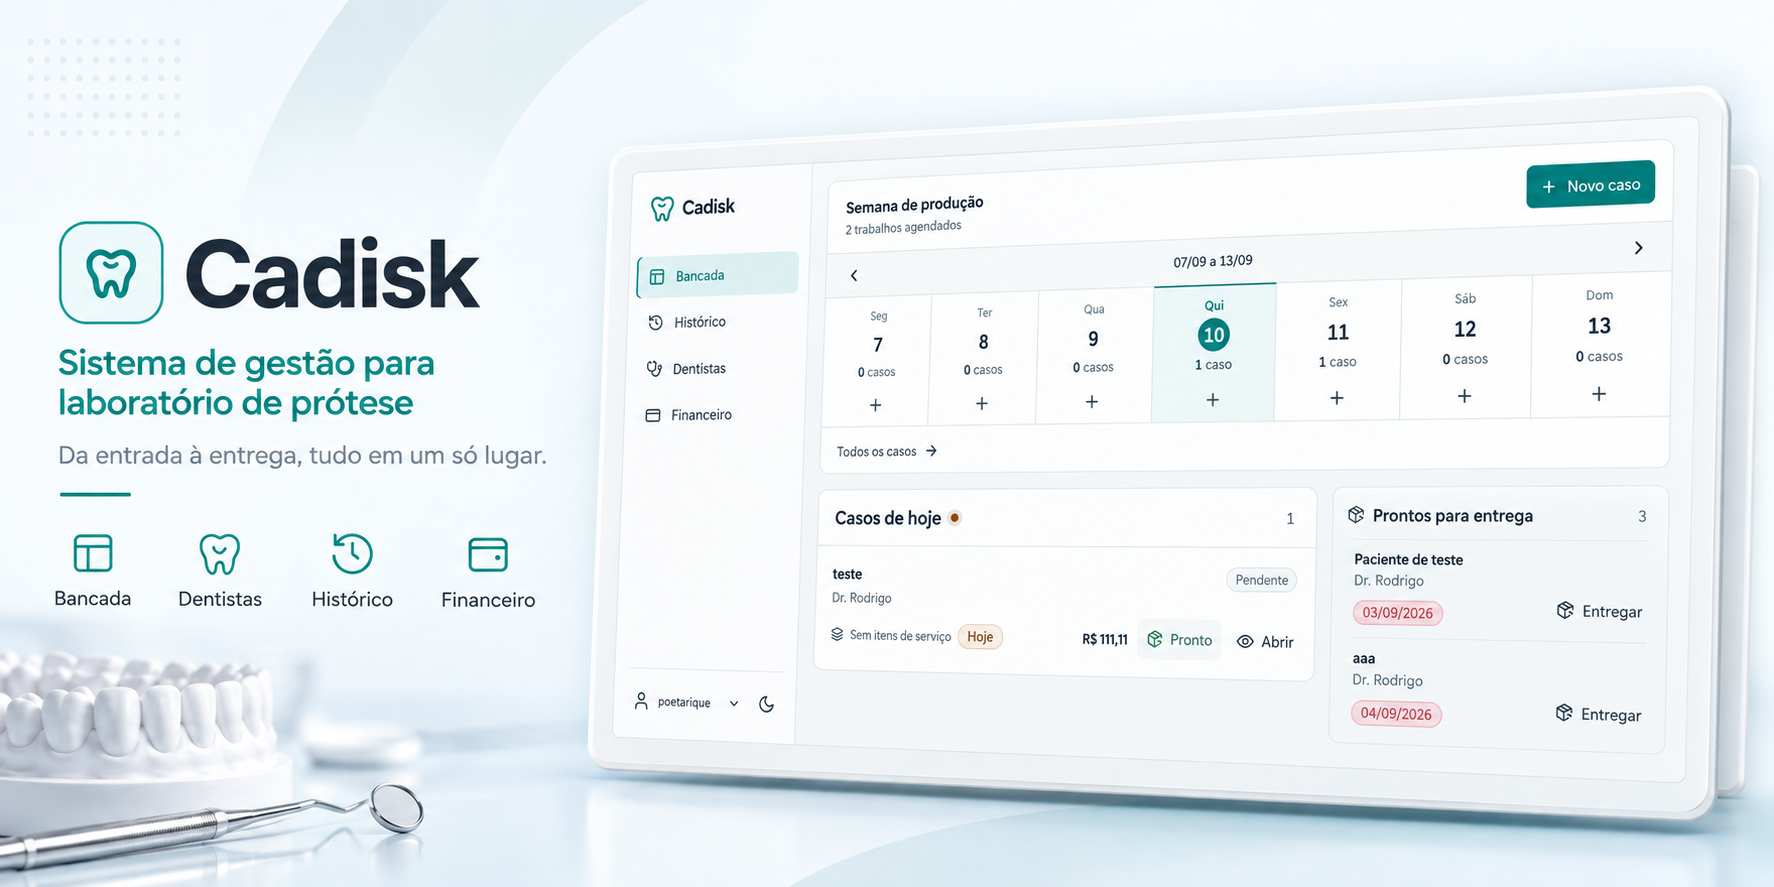
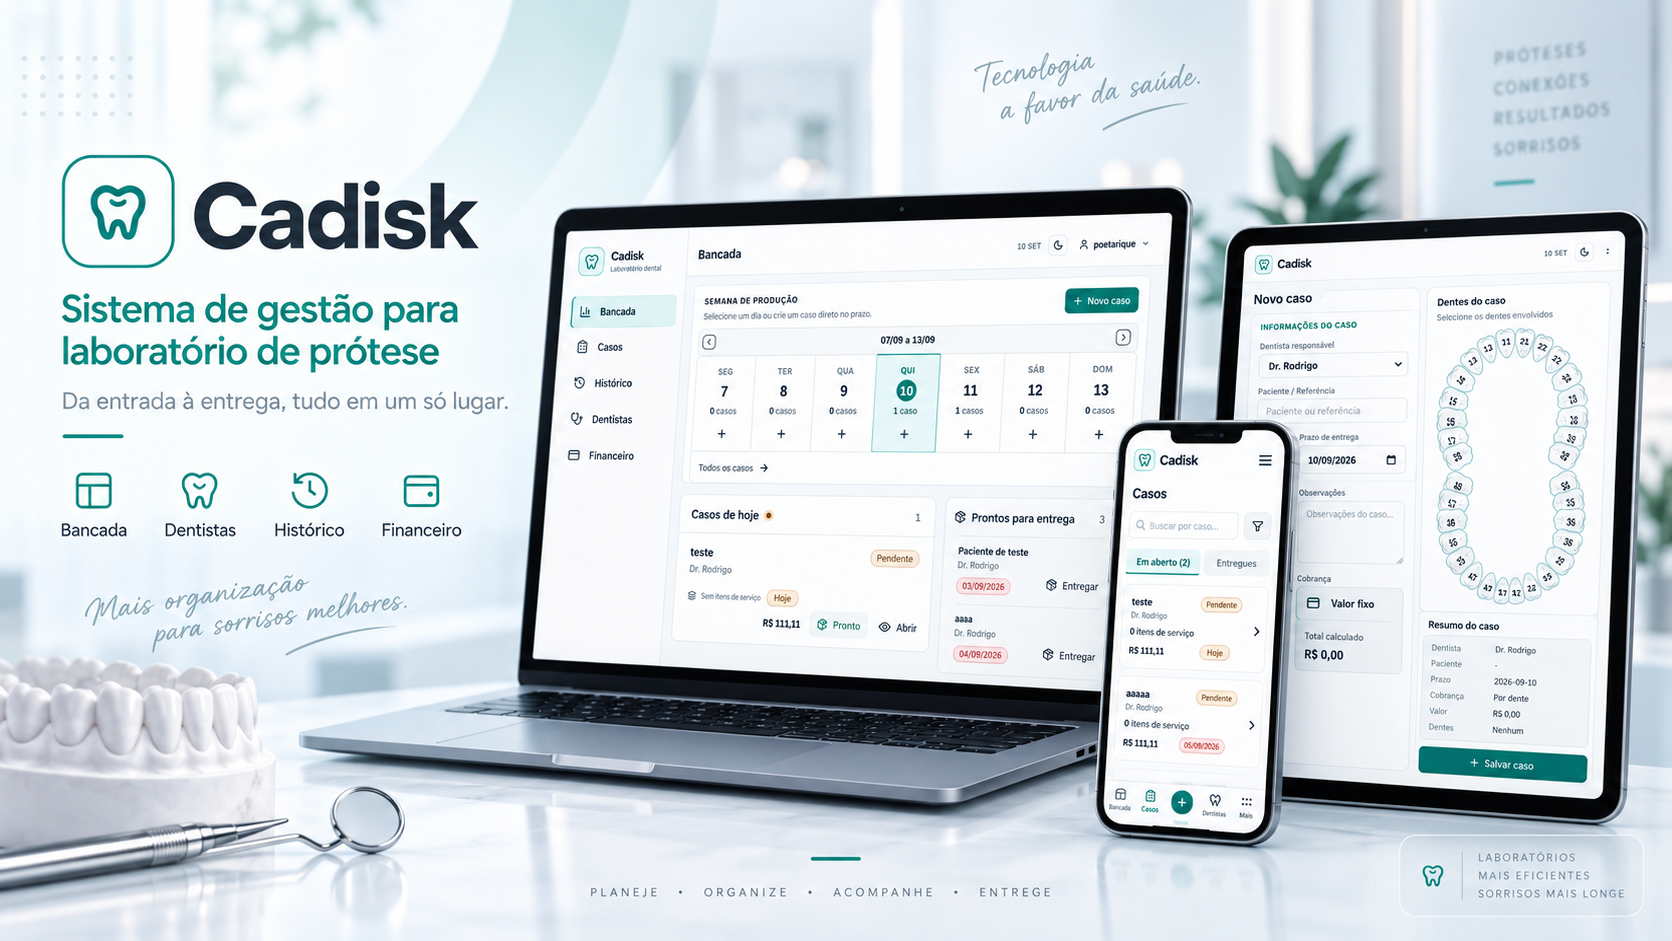
fix(projects): update BunkerMode and Cadisk artwork

diff --git a/index.html b/index.html
@@ -280,8 +280,15 @@
 
         <div class="projects-container container grid">
           <article class="project-card">
-            <div class="project-media project-placeholder" aria-hidden="true">
-              <span>BunkerMode</span>
+            <div class="project-media">
+              <img
+                src="assets/img/bunkermode-cover.png"
+                alt="BunkerMode presentation on desktop, tablet and mobile"
+                class="project-image"
+                width="1672"
+                height="941"
+                loading="lazy"
+              />
             </div>
 
             <div class="project-content">
@@ -315,13 +322,13 @@
           </article>
 
           <article class="project-card">
-            <div class="project-media project-media--cadisk">
+            <div class="project-media">
               <img
                 src="assets/img/cadisk-cover.png"
-                alt="Cadisk dental lab management interface"
+                alt="Cadisk presentation on desktop, tablet and mobile"
                 class="project-image"
-                width="1774"
-                height="887"
+                width="1672"
+                height="941"
                 loading="lazy"
               />
             </div>

diff --git a/assets/css/styles.css b/assets/css/styles.css
@@ -447,27 +447,15 @@ img {
 }
 
 .project-media {
-  aspect-ratio: 16 / 9;
+  aspect-ratio: 1672 / 941;
   overflow: hidden;
 }
 
-.project-media--cadisk {
-  aspect-ratio: 2 / 1;
-}
-
 .project-image {
+  display: block;
   width: 100%;
   height: 100%;
-  object-fit: cover;
-}
-
-.project-placeholder {
-  display: grid;
-  place-items: center;
-  color: var(--white-color);
-  background: var(--second-gradient);
-  font-size: var(--h3-font-size);
-  font-weight: var(--font-bold);
+  object-fit: contain;
 }
 
 .project-content {
